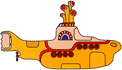
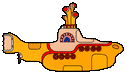
torpedo muwahahaha....

Changed region(s): [[0.0, 0.0, 1.0, 1.0]]

diff --git a/trunk/ underwateradventure/src/game/GameThread.java b/trunk/ underwateradventure/src/game/GameThread.java
@@ -28,7 +28,7 @@ public class GameThread extends Applet implements Runnable, KeyListener{
     Random randomY=new Random();
     
     int life=500;
-    
+    boolean shotTaken=false;
     
     PhysicalObject octopi_array[]={	new PhysicalObject(this),
     								new PhysicalObject(this),
@@ -38,18 +38,13 @@ public class GameThread extends Applet implements Runnable, KeyListener{
     								new PhysicalObject(this),
     								new PhysicalObject(this),
     							   };	
+    
+    PhysicalObject torpedo=new PhysicalObject(this);
    
-
-    
-	int currentX=0;
-	int currentY=0;
-	int lastX;
-	int lastY;
-    
     int appletSizeX = 1000;
     int appletSizeY = 400;
     AffineTransform ident = new AffineTransform();
-    boolean showBounds=true;
+    boolean showBounds;
     int change;
     
     int currentFrameOctopi=0;
@@ -64,10 +59,16 @@ public class GameThread extends Applet implements Runnable, KeyListener{
 		player.load("sub.png");
 		player.setX(200);
 		player.setY(175);
-		player.setWidth(122);
-		player.setHeight(70);
+		player.setWidth(127);
+		player.setHeight(75);
 		
-
+		torpedo.setGraphics(graphics);
+		torpedo.load("torpedo.png");
+		torpedo.setWidth(44);
+		torpedo.setHeight(16);
+		torpedo.setX(player.getX()+110);
+		torpedo.setY(player.getY()+45);
+		
 		octopi_array[0].setGraphics(graphics);
 		octopi_array[0].load("octopi2.png");
 		octopi_array[0].setWidth(88);
@@ -119,6 +120,10 @@ public class GameThread extends Applet implements Runnable, KeyListener{
     		for(int i=0; i<octopi_array.length; i++){
     			octopi_array[i].drawBounds();
     		}
+    	}
+    	
+    	if(shotTaken==true){
+    		drawShot(torpedo.getX(), torpedo.getY());
     	}
     	
     	if(life<0){
@@ -188,7 +193,59 @@ public class GameThread extends Applet implements Runnable, KeyListener{
 	
     }
     
-    
+    public void drawShot(double x, double y){
+    	if(torpedo.getX()>1000){
+    		shotTaken=false;
+    	}
+    	else if(collision(octopi_array[0].getBounds(),torpedo.getBounds())){
+    		octopi_array[0].setY(500);
+    		shotTaken=false;
+    		
+    		explosionAnimation();
+    	}
+    	else if(collision(octopi_array[1].getBounds(),torpedo.getBounds())){
+    		octopi_array[1].setY(500);
+    		shotTaken=false;
+    		explosionAnimation();
+    	}
+    	else if(collision(octopi_array[2].getBounds(),torpedo.getBounds())){
+    		octopi_array[2].setY(500);
+    		shotTaken=false;
+    		explosionAnimation();
+    	}
+    	else if(collision(octopi_array[3].getBounds(),torpedo.getBounds())){
+    		octopi_array[3].setY(500);
+    		shotTaken=false;
+    		explosionAnimation();
+    	}
+    	else if(collision(octopi_array[4].getBounds(),torpedo.getBounds())){
+    		octopi_array[4].setY(500);
+    		shotTaken=false;
+    		explosionAnimation();
+    	}
+    	else if(collision(octopi_array[5].getBounds(),torpedo.getBounds())){
+    		octopi_array[5].setY(500);
+    		shotTaken=false;
+    		explosionAnimation();
+    	}
+    	else if(collision(octopi_array[6].getBounds(),torpedo.getBounds())){
+    		octopi_array[6].setY(500);
+    		shotTaken=false;
+    		explosionAnimation();
+    	}
+    	else{
+    		torpedo.setX(x+8);
+        	torpedo.setY(y);
+    	}
+    	torpedo.draw();
+    	torpedo.transform();
+    	
+    	
+    	
+    }
+    public void explosionAnimation(){
+    	
+    }
     public boolean collision(Rectangle objectOne, Rectangle objectTwo ){
     	
     	if( objectOne.intersects(objectTwo)){
@@ -198,12 +255,15 @@ public class GameThread extends Applet implements Runnable, KeyListener{
     	return false;
     }
     
+   
+    
     public void gameOver(){
     	graphics.setColor(Color.BLACK);
         graphics.fillRect(0, 0, getSize().width, getSize().height);
         graphics.setColor(Color.RED);
         graphics.drawString("GAME OVER", getSize().width/2, getSize().height/2);
     }
+    
     
 	@Override
 	public void keyPressed(KeyEvent k) {
@@ -213,7 +273,6 @@ public class GameThread extends Applet implements Runnable, KeyListener{
 		
 		if(KeyEvent.VK_LEFT == key)
             player.keyLeft();
-
 
 		if(KeyEvent.VK_UP == key)
             player.keyUp();
@@ -226,6 +285,12 @@ public class GameThread extends Applet implements Runnable, KeyListener{
 		
 		if(KeyEvent.VK_B == key)
 			showBounds = !showBounds;
+		
+		if(KeyEvent.VK_SPACE==key){
+			torpedo.setY(player.getY()+45);
+			torpedo.setX(player.getX()+110);
+			shotTaken=true;
+		}
 
 	}
 	@Override

diff --git a/trunk/ underwateradventure/src/objects/Player.java b/trunk/ underwateradventure/src/objects/Player.java
@@ -1,12 +1,15 @@
 package objects;
 
 import java.applet.Applet;
+import java.awt.Color;
+import java.awt.Component;
+import java.awt.Graphics;
 import java.awt.Graphics2D;
 import java.awt.Image;
 import java.awt.geom.AffineTransform;
+import java.awt.image.BufferedImage;
 
 public class Player extends PhysicalObject {
-	
 	
 	public Player(Applet a) {
 		super(a);
@@ -26,5 +29,6 @@ public class Player extends PhysicalObject {
 	public void keyRight(){
 		setX(x+10);
 	}
+	
 	
 }
